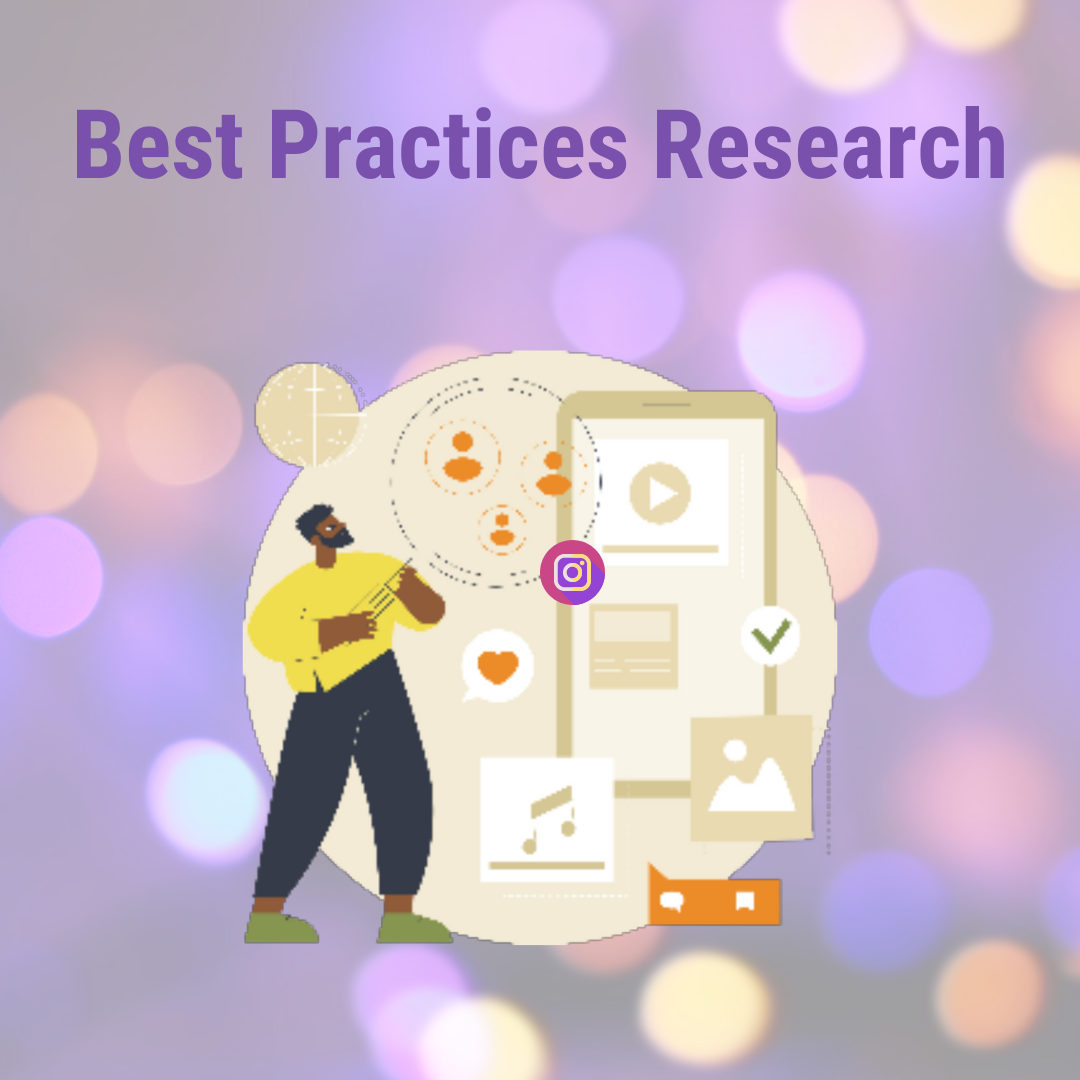
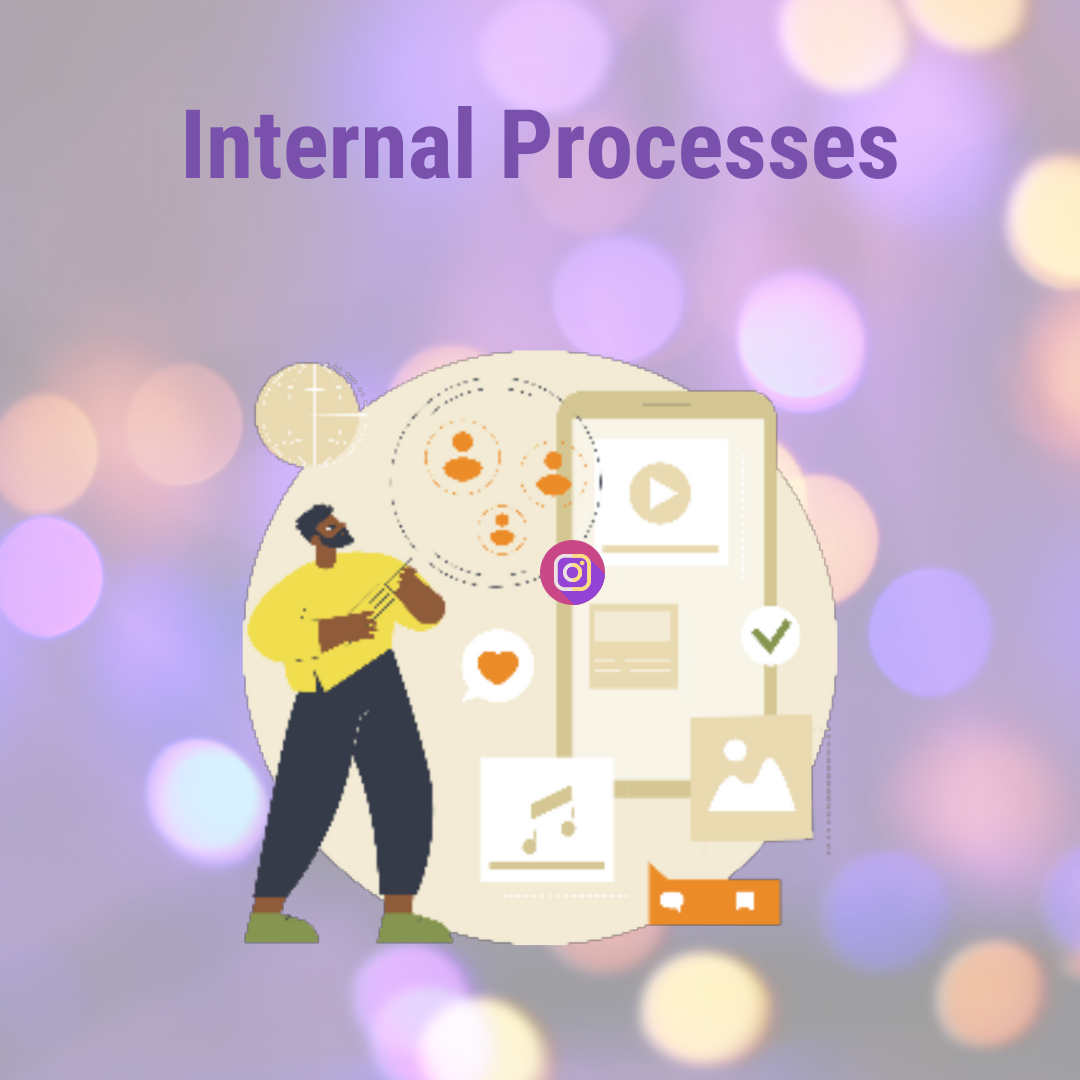
reorganization for publishing

Changed region(s): [[0.0611, 0.0917, 0.9472, 0.1833]]

diff --git a/content/blog/color-themes/index.md b/content/blog/color-themes/index.md
@@ -3,18 +3,16 @@ author:
 categories:
 date: "2022-08-13"
 draft: false
-excerpt: Current standards and news on social media and website trends and algorithms.
+excerpt: Current Bridge Alliance Edcation Fund and Citizen Connect Internal Standards
 layout: single
 subtitle: ""
 tags:
-title: Best Practices
+title: Internal Processes
 ---
 
 ## Bridge Alliance Education Fund Guiding Documents
 
 #### [Link to Bridge Alliance Education Fund Social Media Workflow Document](https://docs.google.com/document/d/1_657SsHyd_GfF06luk8jGJKRjT6HCrX4u8l6Mjkb5Ho/edit?usp=sharing)
-
-#### [Link to Bridge Alliance Education Fund Update Document](https://docs.google.com/document/d/1vN0pgIGjEbbDas9Q0BUnFOUXf7Vyl0DPSB2zcBdM850/edit?usp=sharing)
 
 
 

diff --git a/content/collection/day02/_index.md b/content/collection/day02/_index.md
@@ -1,16 +1,25 @@
 ---
-author: Kristina Becvar
 date: "2022-08-13"
-description:
-excerpt: null
-layout: single-series
-publishDate: "2022-08-13"
-show_author_byline: false
-show_post_date: false
-show_post_thumbnail: true
-subtitle: Reports from Sprout Social and Meta Business
+draft: false
+excerpt: 
+subtitle: Reports from Sprout Social
 title: Social Media Analysis
 weight: 3
 ---
 
-Landing
+## 2nd Quarter Social Media Performance
+
+![Q2Total](Q2Performance.png)
+
+## 2nd Quarter Social Media Impressions
+
+![Q2Total](Q2Impressions.png)
+
+## 2nd Quarter Social Media Engagement
+
+![Q2Total](Q2Engagement.png)
+
+## 2nd Quarter Social Media Follower Growth
+
+![Q2Total](Q2FollowerGrowth.png)
+

diff --git a/content/blog/evergreen/index.md b/content/blog/evergreen/index.md
@@ -3,10 +3,10 @@ author:
 categories:
 date: "2022-08-13"
 draft: false
-excerpt: Auto-updating dashboard using Google Analytics data, presented through Google Data Studio.
+excerpt: Monthly updates of the holistic analysis of the member amplification plan progress
 layout: single
 subtitle: ""
-title: Google Analytics Dashboard
+title: Social Media & Website Analytics
 ---
 
 ## Dashboard

diff --git a/content/blog/seedling/index.md b/content/blog/seedling/index.md
@@ -12,6 +12,8 @@ title: Definitions
 
 # Website Analytics Guide
 
+![Link to Google Document Version of Analytics Guide](https://docs.google.com/document/d/1sQ35XeULMe4NfmIyrR82yty6DYm0XxGNeaKeG88YvYw/edit?usp=sharing)
+
 ## Acquisition Metrics
 
 How do people get to your website?

diff --git a/content/collection/day02/01-netlify/index.md b/content/collection/day02/01-netlify/index.md
@@ -9,6 +9,8 @@ weight: 1
 
 ## Trends in Youth Users
 
+### [Link to Best Practices for Reaching Generation Z](https://pyxl.com/blog/where-to-reach-generation-z-with-marketing-and-advertising/)
+
 ![Youth Trends](genz.png)
 
 ## Twitter

diff --git a/content/collection/day01/_index.md b/content/collection/day01/_index.md
@@ -2,7 +2,7 @@
 date: "2022-08-13"
 draft: false
 excerpt: 
-subtitle: 
+subtitle: Independent analysis of website data from Google
 title: Google Analytics
 weight: 2
 ---
